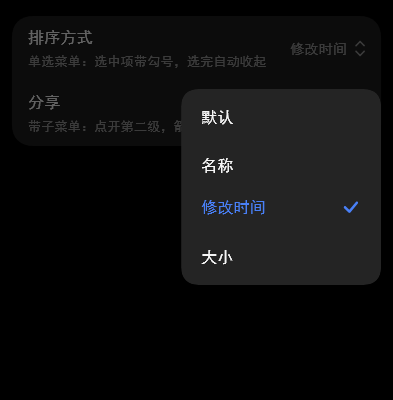
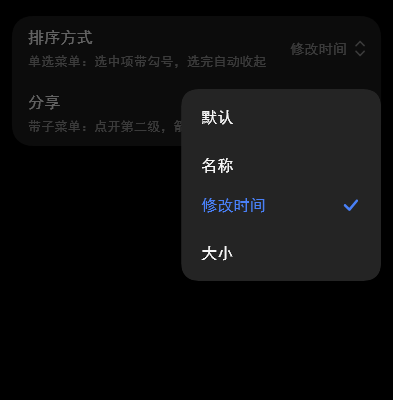
fix(menu): 行尾装饰只吃宽度，勾号不再把选中行撑高 4.1dp
勾号墨盒 20dp 高于正文行盒（dialogAction 15.9dp, height:1.0），此前参与
行高计算，选中行比普通行高 4.1dp —— 上下相邻中心距各 +2dp（真机 42 vs
40dp），整列读作「选中项上下更松」。装饰槽改为 0 高 + OverflowBox 居中
溢出绘制（2.05dp 落在 12dp 行内边距里），行高回到只由文案块决定；级联
返回行的箭头同一处收口。补一条等高 / 等中心距回归测试，更新菜单预览图。

diff --git a/lib/src/overlays/menu/menu.dart b/lib/src/overlays/menu/menu.dart
@@ -682,14 +682,12 @@ class _MiMenuPanelState extends State<_MiMenuPanel>
           isFirst: true,
           isLast: children.isEmpty,
           enabled: true,
-          trailing: SizedBox(
+          trailing: _trailing(
             width: MiMenuMetrics.arrowSize.width,
             height: MiMenuMetrics.arrowSize.height,
-            child: CustomPaint(
-              // 左向箭头 = 「回到上一级」的语义（参考实现复用右向箭头，
-              // 见 MiMenuChevronPainter.back 的说明）。
-              painter: MiMenuChevronPainter(palette.secondary, back: true),
-            ),
+            // 左向箭头 = 「回到上一级」的语义（参考实现复用右向箭头，
+            // 见 MiMenuChevronPainter.back 的说明）。
+            painter: MiMenuChevronPainter(palette.secondary, back: true),
           ),
           onTap: () => setState(() => _path.removeLast()),
         ),
@@ -722,19 +720,45 @@ class _MiMenuPanelState extends State<_MiMenuPanel>
   /// 行尾装饰：选中的勾号优先，其次级联箭头；都不是则无。
   Widget? _trailingFor(MiMenuItem item, MiMenuPalette palette) {
     if (item.selected) {
-      return SizedBox(
+      return _trailing(
         width: MiMenuMetrics.checkSide,
         height: MiMenuMetrics.checkSide,
-        child: CustomPaint(
-          painter: MiMenuCheckPainter(palette.selectedLabel),
-        ),
+        painter: MiMenuCheckPainter(palette.selectedLabel),
       );
     }
     if (!item.hasChildren) return null;
-    return SizedBox(
+    return _trailing(
       width: MiMenuMetrics.arrowSize.width,
       height: MiMenuMetrics.arrowSize.height,
-      child: CustomPaint(painter: MiMenuChevronPainter(palette.secondary)),
+      painter: MiMenuChevronPainter(palette.secondary),
+    );
+  }
+
+  /// 行尾装饰槽：**只吃宽度、不吃高度**，装饰按行垂直中线居中溢出绘制。
+  ///
+  /// 勾号墨盒 20dp 高于正文行盒（`MiTypography.dialogAction` 15.9dp，
+  /// `height: 1.0`），若让槽参与行高计算，选中行就比普通行高 4.1dp —— 上下
+  /// 两个相邻中心距各 +2dp，读起来是「选中项上下更松」。这里把槽钉成 0 高、
+  /// 用 [OverflowBox] 让墨盒以行的中线为心画到槽外（溢出 2.05dp 落在 12dp
+  /// 行内边距里，不碰相邻行），行高于是只由文案块决定。参考实现同样让勾号
+  /// 参与行高，差别在它的正文行盒 ≈18.7dp（差值仅 1.3dp，看不出来）。
+  Widget _trailing({
+    required double width,
+    required double height,
+    required CustomPainter painter,
+  }) {
+    return SizedBox(
+      width: width,
+      height: 0,
+      child: OverflowBox(
+        maxWidth: width,
+        maxHeight: height,
+        child: SizedBox(
+          width: width,
+          height: height,
+          child: CustomPaint(painter: painter),
+        ),
+      ),
     );
   }
 

diff --git a/test/menu_test.dart b/test/menu_test.dart
@@ -331,4 +331,64 @@ void main() {
     expect(find.text('上层动作'), findsOneWidget);
     expect(find.text('危险动作'), findsOneWidget);
   });
+
+  testWidgets('行高：勾号不参与行高，选中行与普通行等高（相邻中心距一致）', (tester) async {
+    final controller = MiMenuController();
+    addTearDown(controller.dispose);
+    tester.view.devicePixelRatio = 1.0;
+    tester.view.physicalSize = const Size(393, 856);
+    addTearDown(tester.view.reset);
+
+    // 5 行：首 / 末行走 20dp 边距，中间三行都是 12dp —— 比较「选中」与
+    // 「未选中」的中间行高度即可判断勾号有没有把行撑高。
+    await tester.pumpWidget(
+      page(
+        controller: controller,
+        groups: () => const [
+          MiMenuGroup([
+            MiMenuItem(label: '第一项'),
+            MiMenuItem(label: '第二项', selected: true),
+            MiMenuItem(label: '第三项'),
+            MiMenuItem(label: '第四项'),
+            MiMenuItem(label: '第五项'),
+          ]),
+        ],
+      ),
+    );
+    await open(tester, controller);
+
+    double rowHeight(String label) => tester
+        .getSize(
+          find
+              .ancestor(of: find.text(label), matching: find.byType(MiPressable))
+              .first,
+        )
+        .height;
+
+    final selected = rowHeight('第二项');
+    final plain = rowHeight('第三项');
+    expect(
+      selected,
+      closeTo(plain, 0.01),
+      reason: '选中行的勾号 20dp 不应撑高行盒（正文行盒 15.9dp）',
+    );
+    // 行高 = 上下各 12 的行内边距 + 正文行盒（15.9 → 引擎取整成 16.0）。
+    expect(
+      selected,
+      closeTo(MiMenuMetrics.rowPadY * 2 + 15.9, 0.2),
+      reason: '行高应由正文行盒决定',
+    );
+
+    // 相邻中心距：选中行上下两侧都不该比别人多 2dp。
+    final centers = [
+      for (final l in ['第一项', '第二项', '第三项', '第四项', '第五项'])
+        tester.getCenter(find.text(l)).dy,
+    ];
+    // centers[1]→[2] 跨「选中行」，centers[2]→[3] 全为普通行，两者须相等。
+    expect(
+      centers[2] - centers[1],
+      closeTo(centers[3] - centers[2], 0.01),
+      reason: '选中行两侧中心距应与普通行一致',
+    );
+  });
 }

diff --git a/lib/src/overlays/menu/menu_metrics.dart b/lib/src/overlays/menu/menu_metrics.dart
@@ -67,9 +67,15 @@ class MiMenuMetrics {
   static const double trailingGap = 12;
 
   /// 勾号墨盒边长。
+  ///
+  /// 只决定槽宽：墨盒高于正文行盒（15.9dp），若参与行高会把选中行撑高
+  /// 4.1dp，故装饰槽钉成 0 高、按行中线居中溢出绘制（见 `menu.dart`
+  /// 的 `_MiMenuPanelState._trailing`）。
   static const double checkSide = 20;
 
   /// 尾部箭头墨盒（宽×高）。
+  ///
+  /// 同 [checkSide]：只占宽度，不参与行高。
   static const Size arrowSize = Size(10, 16);
 
   /// 主 / 副文案行距（参考实现是紧凑堆叠，没有独立间距档）。

diff --git a/CHANGELOG.md b/CHANGELOG.md
@@ -8,6 +8,12 @@
 
 ### Fixed（组件：菜单）
 
+- **`MiMenu` 行距不再被选中勾号撑开**：勾号墨盒 20dp 比正文行盒（`dialogAction`
+  15.9dp，`height: 1.0`）高 4.1dp，此前它参与行高计算，选中行比普通行高 4.1dp
+  —— 上下两个相邻中心距各 +2dp（真机实测 42 vs 40dp），整列读作「选中项上下
+  更松」。行尾装饰槽改为只吃宽度、装饰按行中线居中溢出绘制，行高回到只由文案
+  块决定；级联箭头同一处一并收口。
+
 - **`MiMenu` 级联切换对齐参考实现**：返回行照抄父项整行（含副文），两层才能
   按行对齐 —— 原先漏掉副文让整列上移，切换时像「两页文字糊在一起」；滚动体移
   进切换子树，每层各一条滚动轴（原先共用，旧层偏移会带到新层）；两层行数不同
